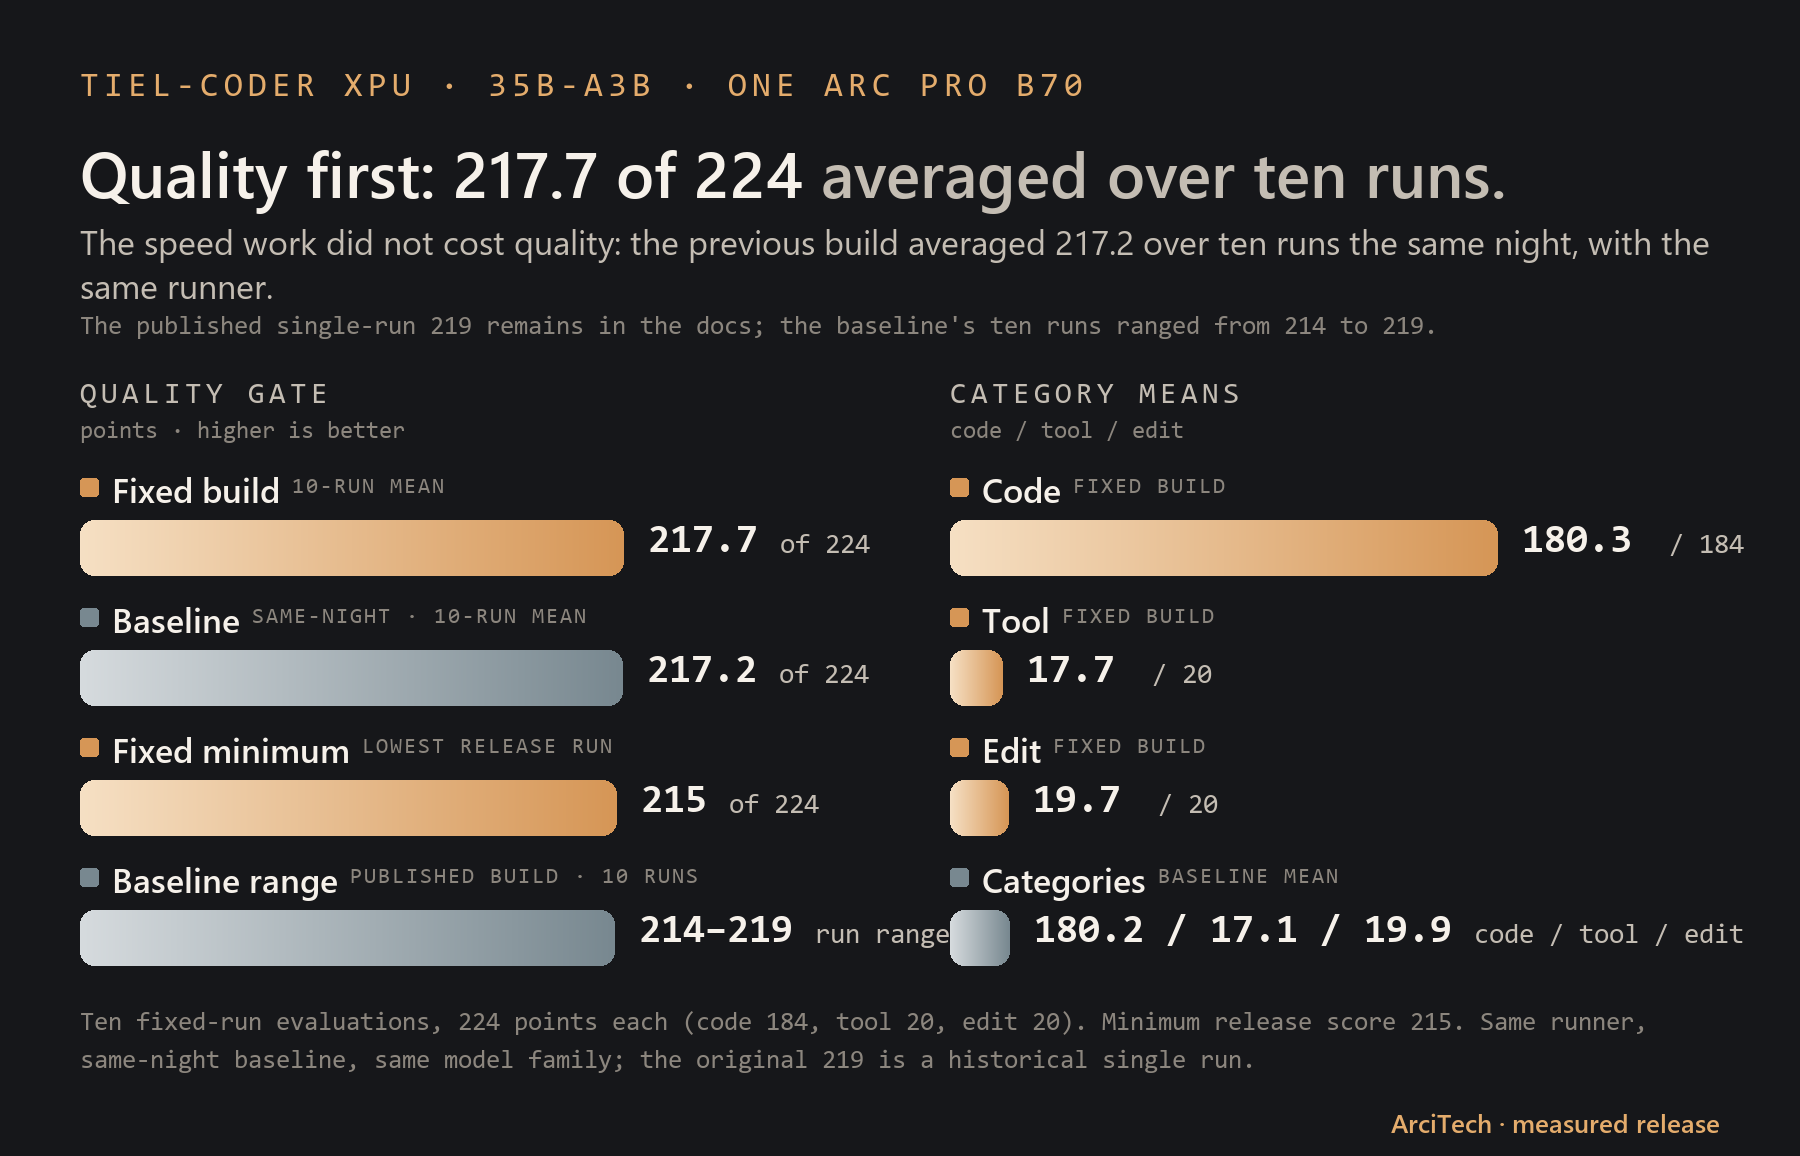
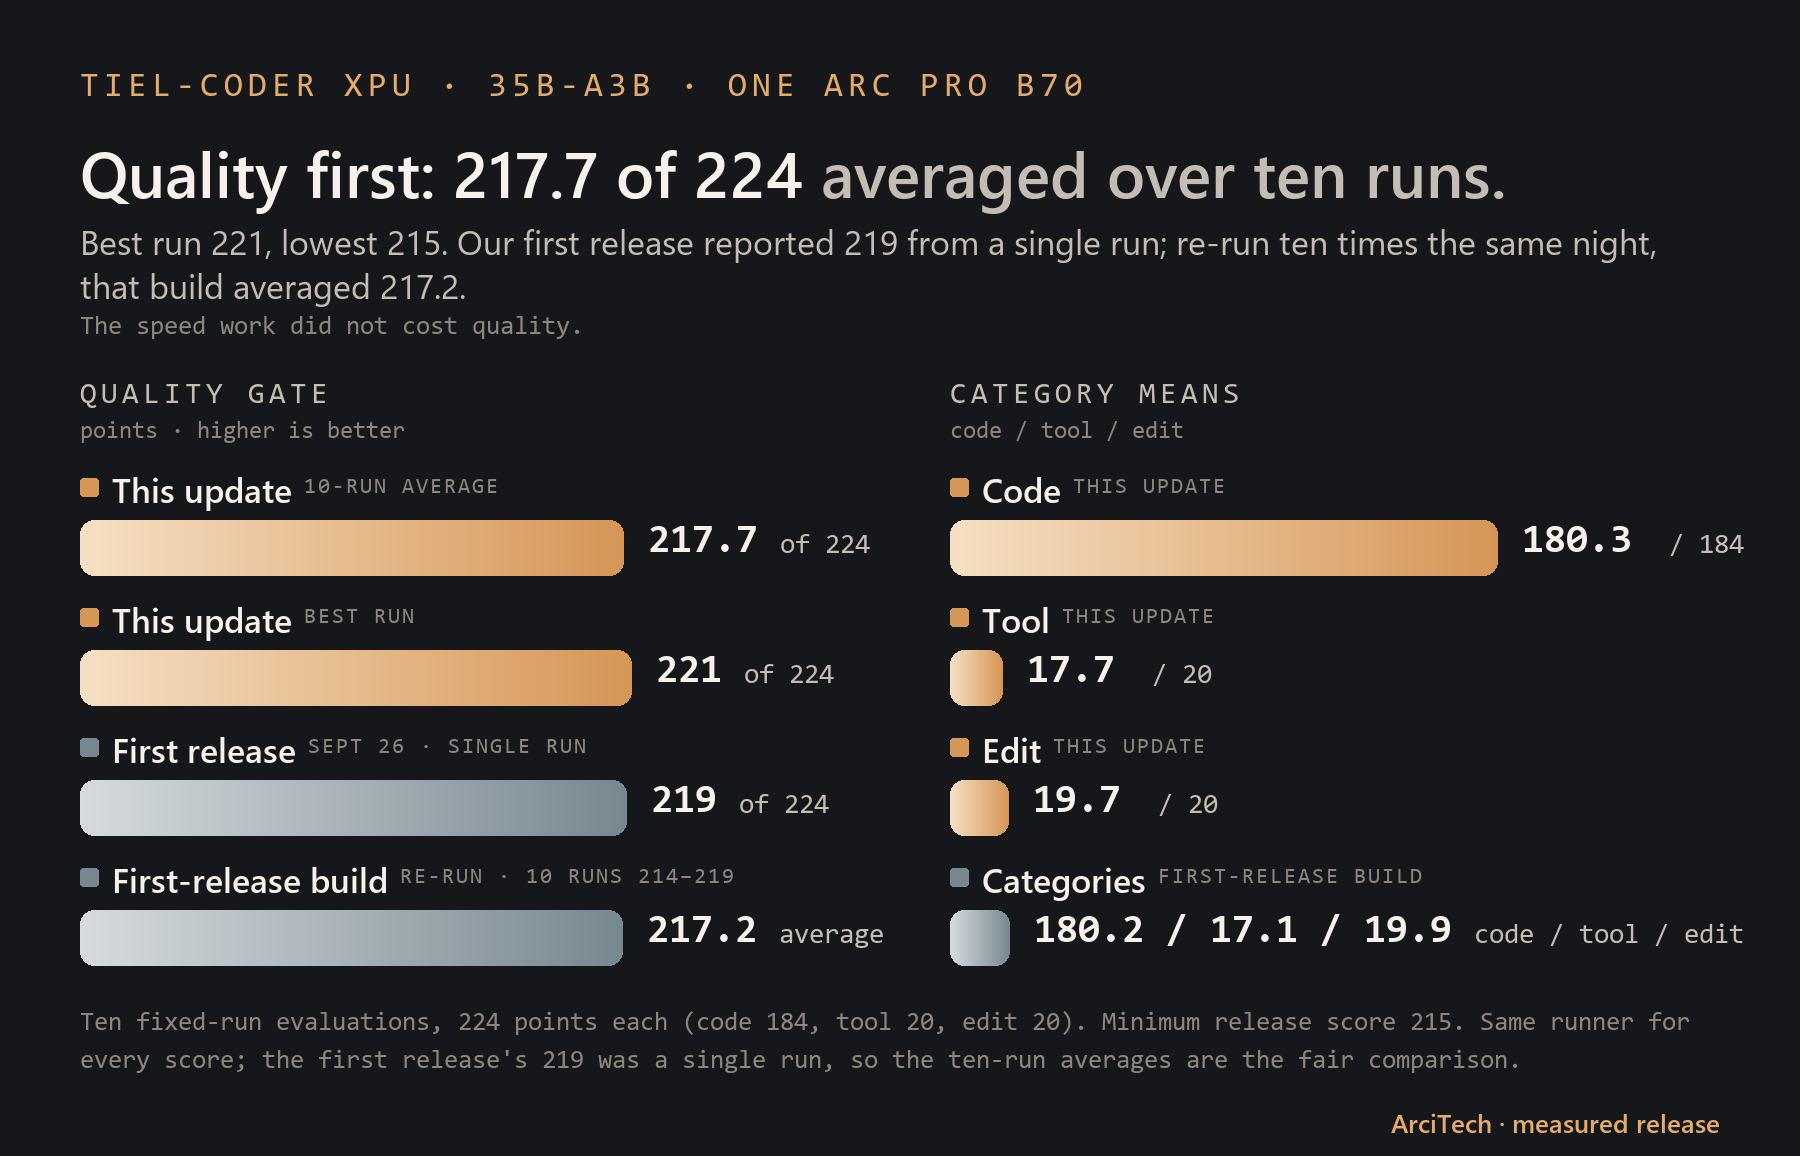
Compare against the first release (116.9 / 339.9 / 219)
Adds the first-release comparison table and re-labels the same-night
re-run; cards show the first release as the reference.

diff --git a/README.md b/README.md
@@ -112,10 +112,25 @@ The fixed route passed cold/warm identity and a 20-minute, four-chat soak with z
 
 <img src="assets/card-throughput.png" alt="Median-of-three speed comparison for one stream, four streams, and six cookbook cells">
 
+### Compared with our first release
+
+| | First release (Sept 26) | This update | Change |
+|---|---:|---:|---:|
+| One user, decode | 116.9 tok/s | **148 tok/s** (median; best run 152) | **+27%** |
+| Four users, total | 339.9 tok/s | **380.4 tok/s** | **+12%** |
+| Four users, each | 92.5–94.0 tok/s | **102 tok/s** (median of 24; best 108) | **+9%** |
+| Peak cell (8K prompt, 512 out) | — | **174.3 tok/s** | — |
+| Quality (internal eval, /224) | 219 (single run) | **217.7 average of 10, best 221** | best run +2 |
+
+Same card, same weights, same four 131K slots. For a strictly fair read: re-measured the same
+night with this update's harness, the first-release build gives 132.7 tok/s (one user) and
+373.1 (four users), so part of the jump is the more careful measurement and part is the new
+serving route. Both comparisons are below.
+
 The speed table is the median of three blocks from the `tfinal_bench.sh` measurement, run back-to-back with the
 baseline. Every cell uses the same deterministic `tfast_bench.py` method.
 
-| Cell | Baseline | Fixed build | Change | Cookbook reference |
+| Cell | Same-night re-run of the first-release build | This update | Change | Cookbook reference |
 |---|---:|---:|---:|---:|
 | bench, 1 stream | 132.7 | **144.4** | **+8.8%** | — |
 | bench, 4 streams | 373.1 | **380.4** | **+2.0%** | — |
